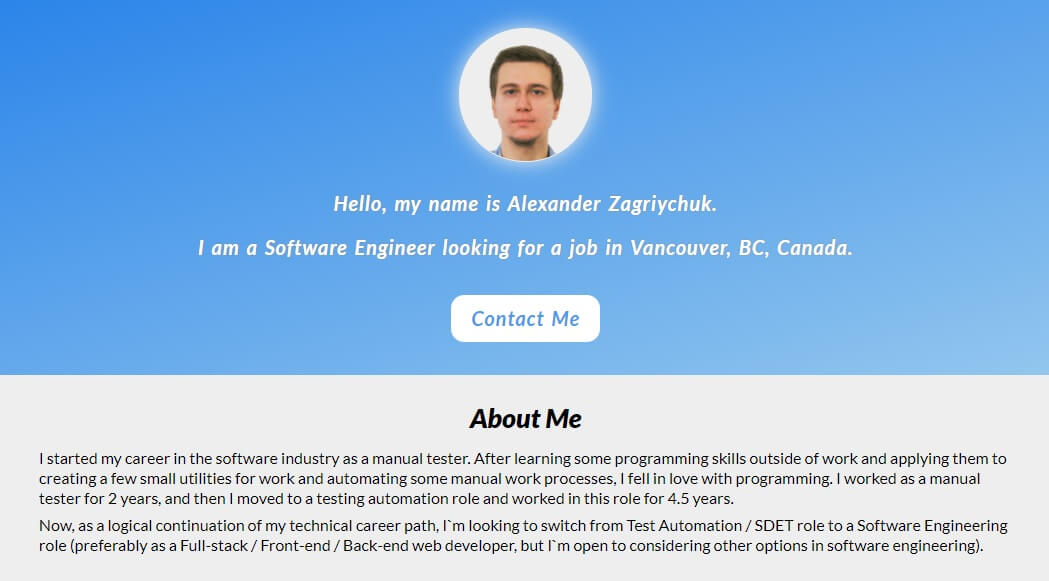
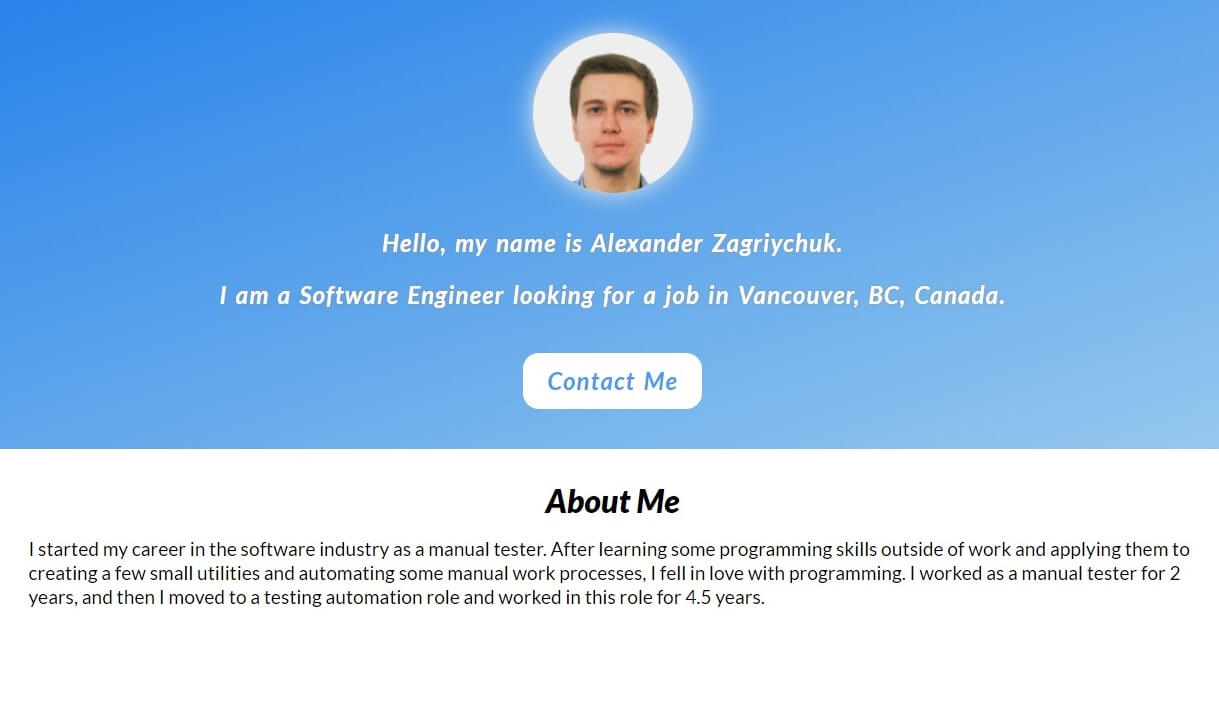
small updates in the content and CSS

Changed region(s): [[0.0305, 0.6816, 0.9762, 0.9604], [0.183, 0.031, 0.8236, 0.5886], [0.0, 0.6196, 1.0, 0.6506]]

diff --git a/index.html b/index.html
@@ -30,7 +30,7 @@
       <h2 class="about-me__title title">About Me</h2>
       <div class="about-me__text">
         <p>I started my career in the software industry as a manual tester. After learning some programming skills outside of work and applying them to creating a few small utilities and automating some manual work processes, I fell in love with programming. I worked as a manual tester for 2 years, and then I moved to a testing automation role and worked in this role for 4.5 years.</p>
-        <p>Now, as a logical continuation of my technical career path, I`m looking to switch from Test Automation / SDET role to a Software Engineering role (preferably as a Full-stack / Front-end / Back-end web developer, but I`m open to considering other options in software engineering).</p>
+        <p>Now, I`m looking to continue working as a Software Developer in Test (SDET) or switch to a product development Software Engineering role (preferably as a Front-end or a Full-stack web developer, but I`m open to considering other options in software engineering).</p>
       </div>
       <div class="about-me__facts">
         <h3 class="about-me__facts-title">Some life and career facts:</h3>
@@ -41,8 +41,8 @@
         </ul>
         <h3 class="about-me__facts-title">Hobbies:</h3>
         <ul>
-          <li>Watching sports (NFL, NBA, Football/Soccer, Golf, Hockey, F1, and other) and playing sports computer games</li>
-          <li>Viewing the content about personal finances and investments (stocks and real estate brrrr)</li>
+          <li>Watching sports (NFL, NBA, Football/Soccer, Golf, F1, and other) and playing sports computer games</li>
+          <li>Viewing the content about personal finances and investments (stocks and real estate BRRRR method)</li>
           <li>Watching YouTube videos on a broad range of software-related topics</li>
           <li>Enjoying the natural beauty of Vancouver, BC</li>
         </ul>
@@ -94,7 +94,7 @@
               <div class="portfolio__project-description full-description">
                 <p>Tech stack: HTML5, CSS3, JavaScript.</p>
                 <ul>
-                  <li>The portfolio website was created using HTML5, CSS3, and a little bit of JavaScript.</li>
+                  <li>The portfolio website was created using HTML5, CSS3, and a little bit of JavaScript. Hosted the website on Netlify.</li>
                   <li>Faced with a problem when attempted to display another website (The Bike Shop) as a "subfolder" of the portfolio website ("alexzagriychuk.com/bikeshop/"). Solved it by using the Netlify "_redirects" file with splat option activated ("/bikeshop/*  https://.../:splat 200").</li>
                   <li>The second major problem I went through was that the "subfolder" website, opened by the URL without closing slash "/" ("alexzagriychuk.com/bikeshop"), would break after attempting to navigate to another page ("ABOUT US", "CONTACT"), because without the closing slash, all relative paths would try to get resources in the root page "alexzagriychuk.com/" rather than the current page "alexzagriychuk.com/bikeshop/". I created a workaround solution by adding the "Snippet injection" in the Netlify "Build & deploy" / "Post processing" section. This snippet adds JavaScript code before the end of the "head" section of the "subfolder" website`s index.html file. This code adds the slash at the end of the URL if the "subfolder" website was opened without the trailing slash in the URL.</li>
                 </ul>

diff --git a/styles/style.css b/styles/style.css
@@ -24,6 +24,14 @@ body {
   align-items: center;
 }
 
+section:nth-child(2n) {
+  background-color: #fff;
+}
+
+section:nth-child(2n + 1) {
+  background-color: #eee;
+}
+
 /*----------------------------------
 ---------       intro      ---------
 ------------------------------------*/
@@ -90,7 +98,6 @@ body {
 -------       about-me      --------
 ------------------------------------*/
 .about-me {
-  background-color: #eee;
   padding: 50px 0;
 }
 
@@ -125,7 +132,6 @@ body {
 --------      portfolio     --------
 ------------------------------------*/
 .portfolio {
-  background-color: #eee;
   padding: 50px 0;
 }
 
@@ -283,7 +289,6 @@ body {
 ------      certificates     -------
 ------------------------------------*/
 .certificates {
-  background-color: #fff;
   padding: 50px 0;
 }
 
@@ -392,6 +397,10 @@ body {
 ---------      media      ----------
 ------------------------------------*/
 @media (max-width: 1024px) {
+  .portfolio__disclaimer {
+    margin: 30px 0 0;
+  }
+
   .portfolio__project {
     display: block;
     width: 95%;
